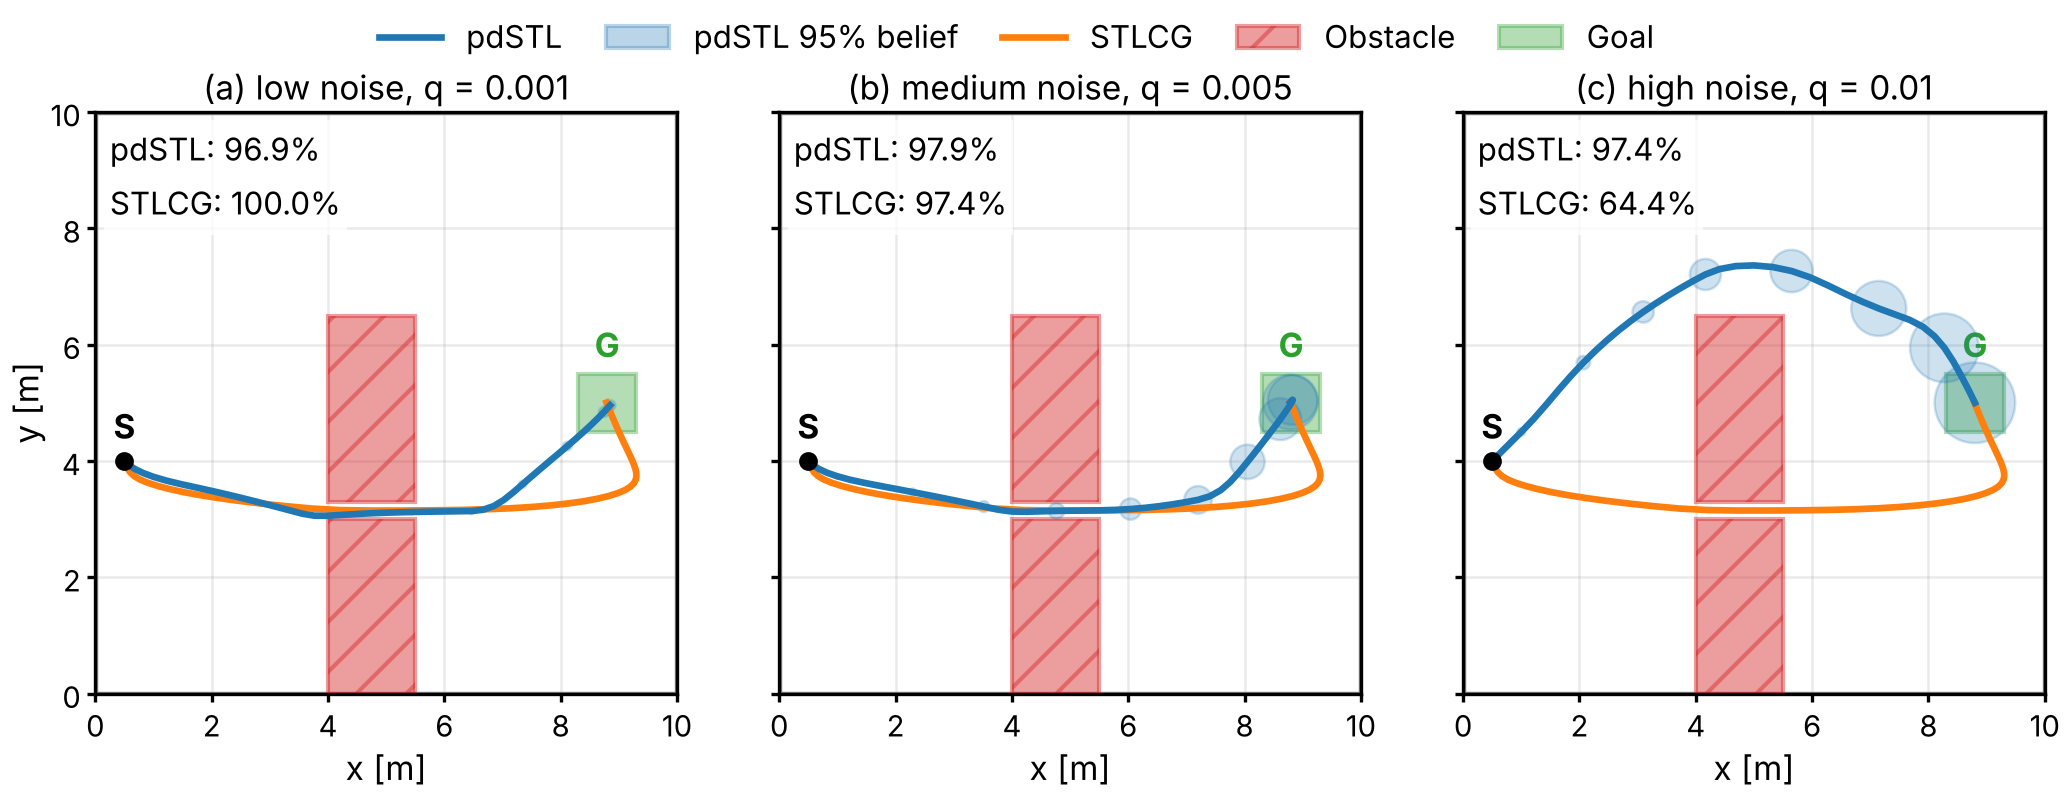
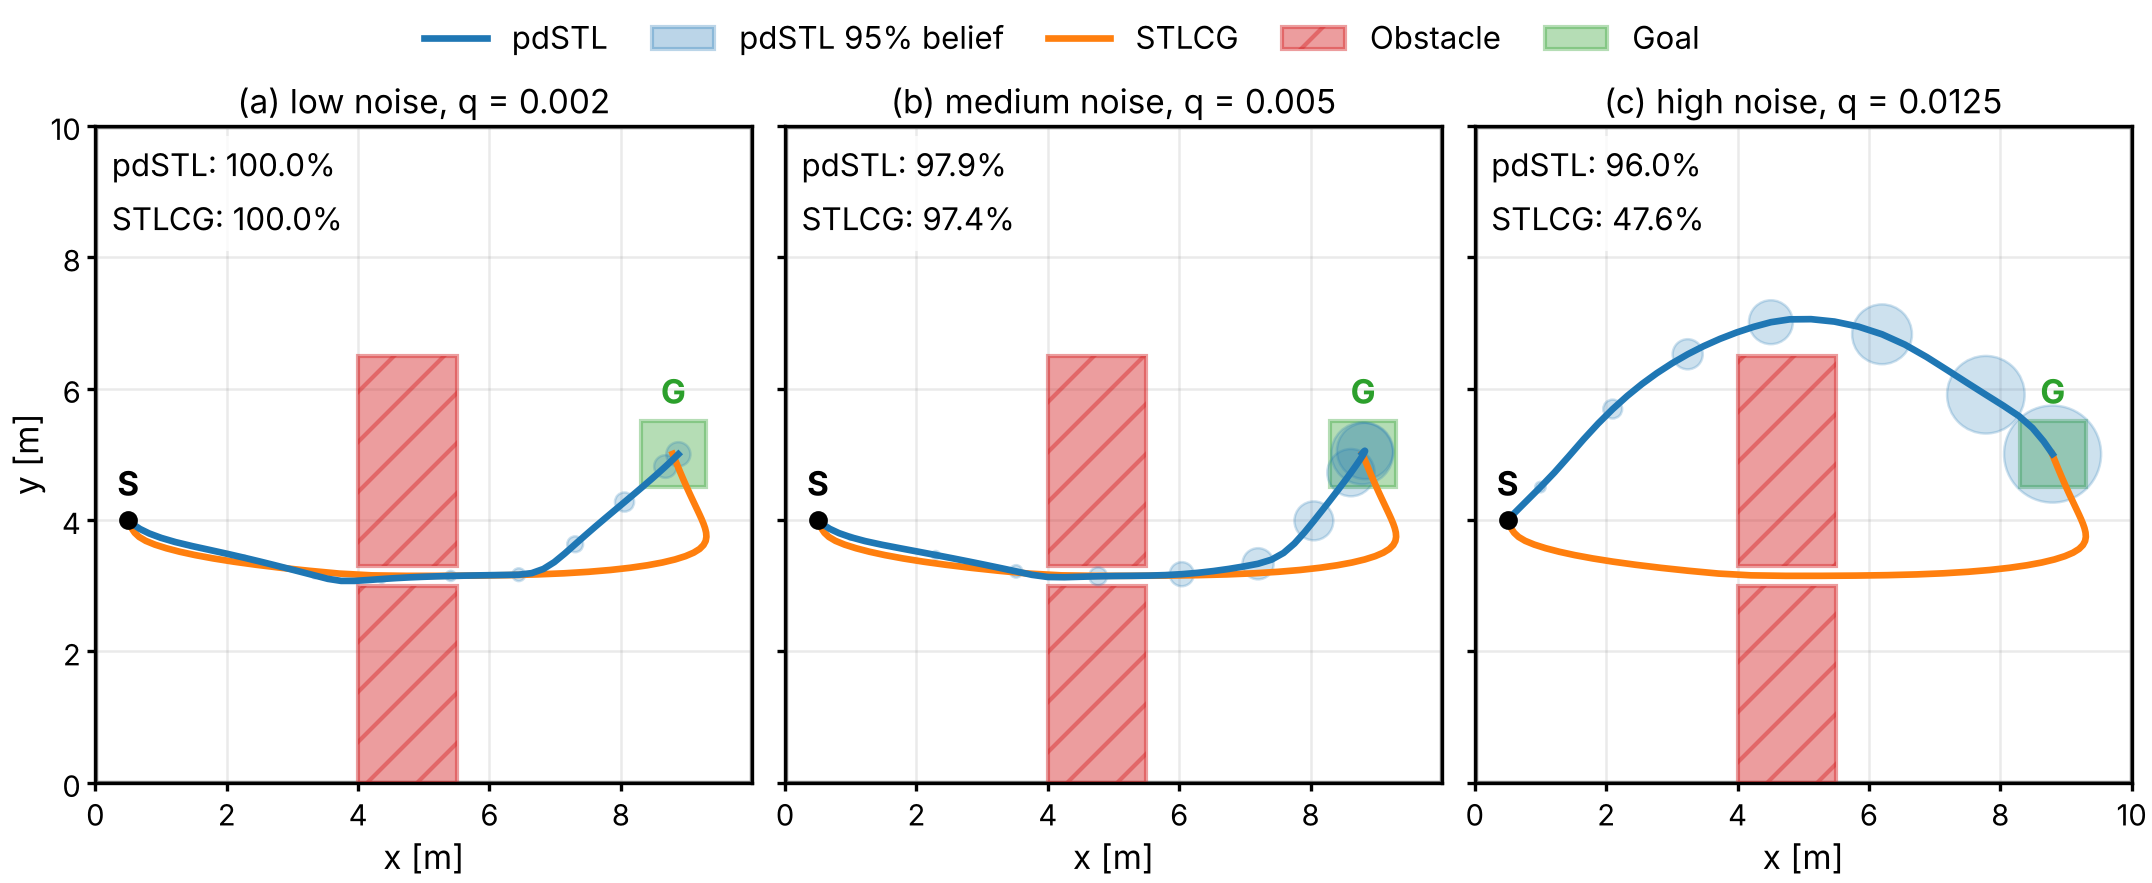
Two-gap final: noise q = 0.002 / 0.005 / 0.0125 (ratio 2.5)
A sweep put pdSTL's limit near q = 0.012 (Monte Carlo 96.7%; 94.2% at
0.014), so the top level sits just below it and the others follow at a
constant ratio of 2.5. pdSTL: slit, slit, around (100 / 97.9 / 96.0%).
STLCG: slit throughout (100 / 97.4 / 47.6%). Figure: x = 10 is labelled
only on the last panel, so tick labels between panels no longer meet.
The seed test uses the medium level (at high noise the guess's median
clearance is zero for any seed).

Claude-Session: https://claude.ai/code/session_01NqSK7fKr87PMSP6gKgMALm

diff --git a/src/experiments/two_gap.py b/src/experiments/two_gap.py
@@ -397,7 +397,6 @@ def figure(cfg, methods=("stlcg", "pdstl")):
             1,
             len(levels),
             figsize=(7.16, 2.95),
-            sharex=True,
             sharey=True,
             gridspec_kw={"wspace": 0.05},
         )
@@ -429,7 +428,8 @@ def figure(cfg, methods=("stlcg", "pdstl")):
                 xlim=cfg["bounds"]["x_range"],
                 ylim=cfg["bounds"]["y_range"],
                 aspect="equal",
-                xticks=range(0, 11, 2),
+                # the last panel alone shows x = 10, so labels do not meet
+                xticks=range(0, 11 if i == len(levels) - 1 else 10, 2),
                 yticks=range(0, 11, 2),
             )
             ax.set_xlabel("x [m]", labelpad=1)

diff --git a/tests/test_two_gap.py b/tests/test_two_gap.py
@@ -81,7 +81,7 @@ def test_monte_carlo_draws_are_fixed_by_the_config_seed(cfg):
 
     def run(seed):
         small = {**cfg, "monte_carlo": {"samples": 200, "seed": seed}}
-        return two_gap.evaluate(small, controls, "high")
+        return two_gap.evaluate(small, controls, "medium")
 
     assert run(7) == run(7)  # every plan sees the same draws
     assert run(7)["clearance_median"] != run(8)["clearance_median"]

diff --git a/outputs/two_gap/table.md b/outputs/two_gap/table.md
@@ -1,8 +1,8 @@
 | noise | method | gap | success_pct | ci_pct | pdstl_score | effort | clearance_p05_cm |
 |---|---|---|---|---|---|---|---|
-| low | STLCG | slit | 100.0 | [99.9, 100.0] | 1.0 | 25.3 | 12.0 |
-| low | pdSTL | slit | 96.9 | [96.4, 97.4] | 0.965 | 17.3 | 4.2 |
+| low | STLCG | slit | 100.0 | [99.9, 100.0] | 1.0 | 25.3 | 10.4 |
+| low | pdSTL | slit | 100.0 | [99.9, 100.0] | 1.0 | 16.0 | 4.7 |
 | medium | STLCG | slit | 97.4 | [96.9, 97.8] | 0.928 | 25.3 | 4.8 |
 | medium | pdSTL | slit | 97.9 | [97.4, 98.2] | 0.97 | 17.8 | 2.3 |
-| high | STLCG | slit | 64.4 | [63.1, 65.7] | 0.321 | 25.3 | 0.0 |
-| high | pdSTL | around | 97.4 | [96.9, 97.8] | 0.843 | 34.9 | 38.7 |
+| high | STLCG | slit | 47.6 | [46.2, 49.0] | 0.03 | 25.3 | 0.0 |
+| high | pdSTL | around | 96.0 | [95.4, 96.5] | 0.797 | 35.0 | 15.6 |
